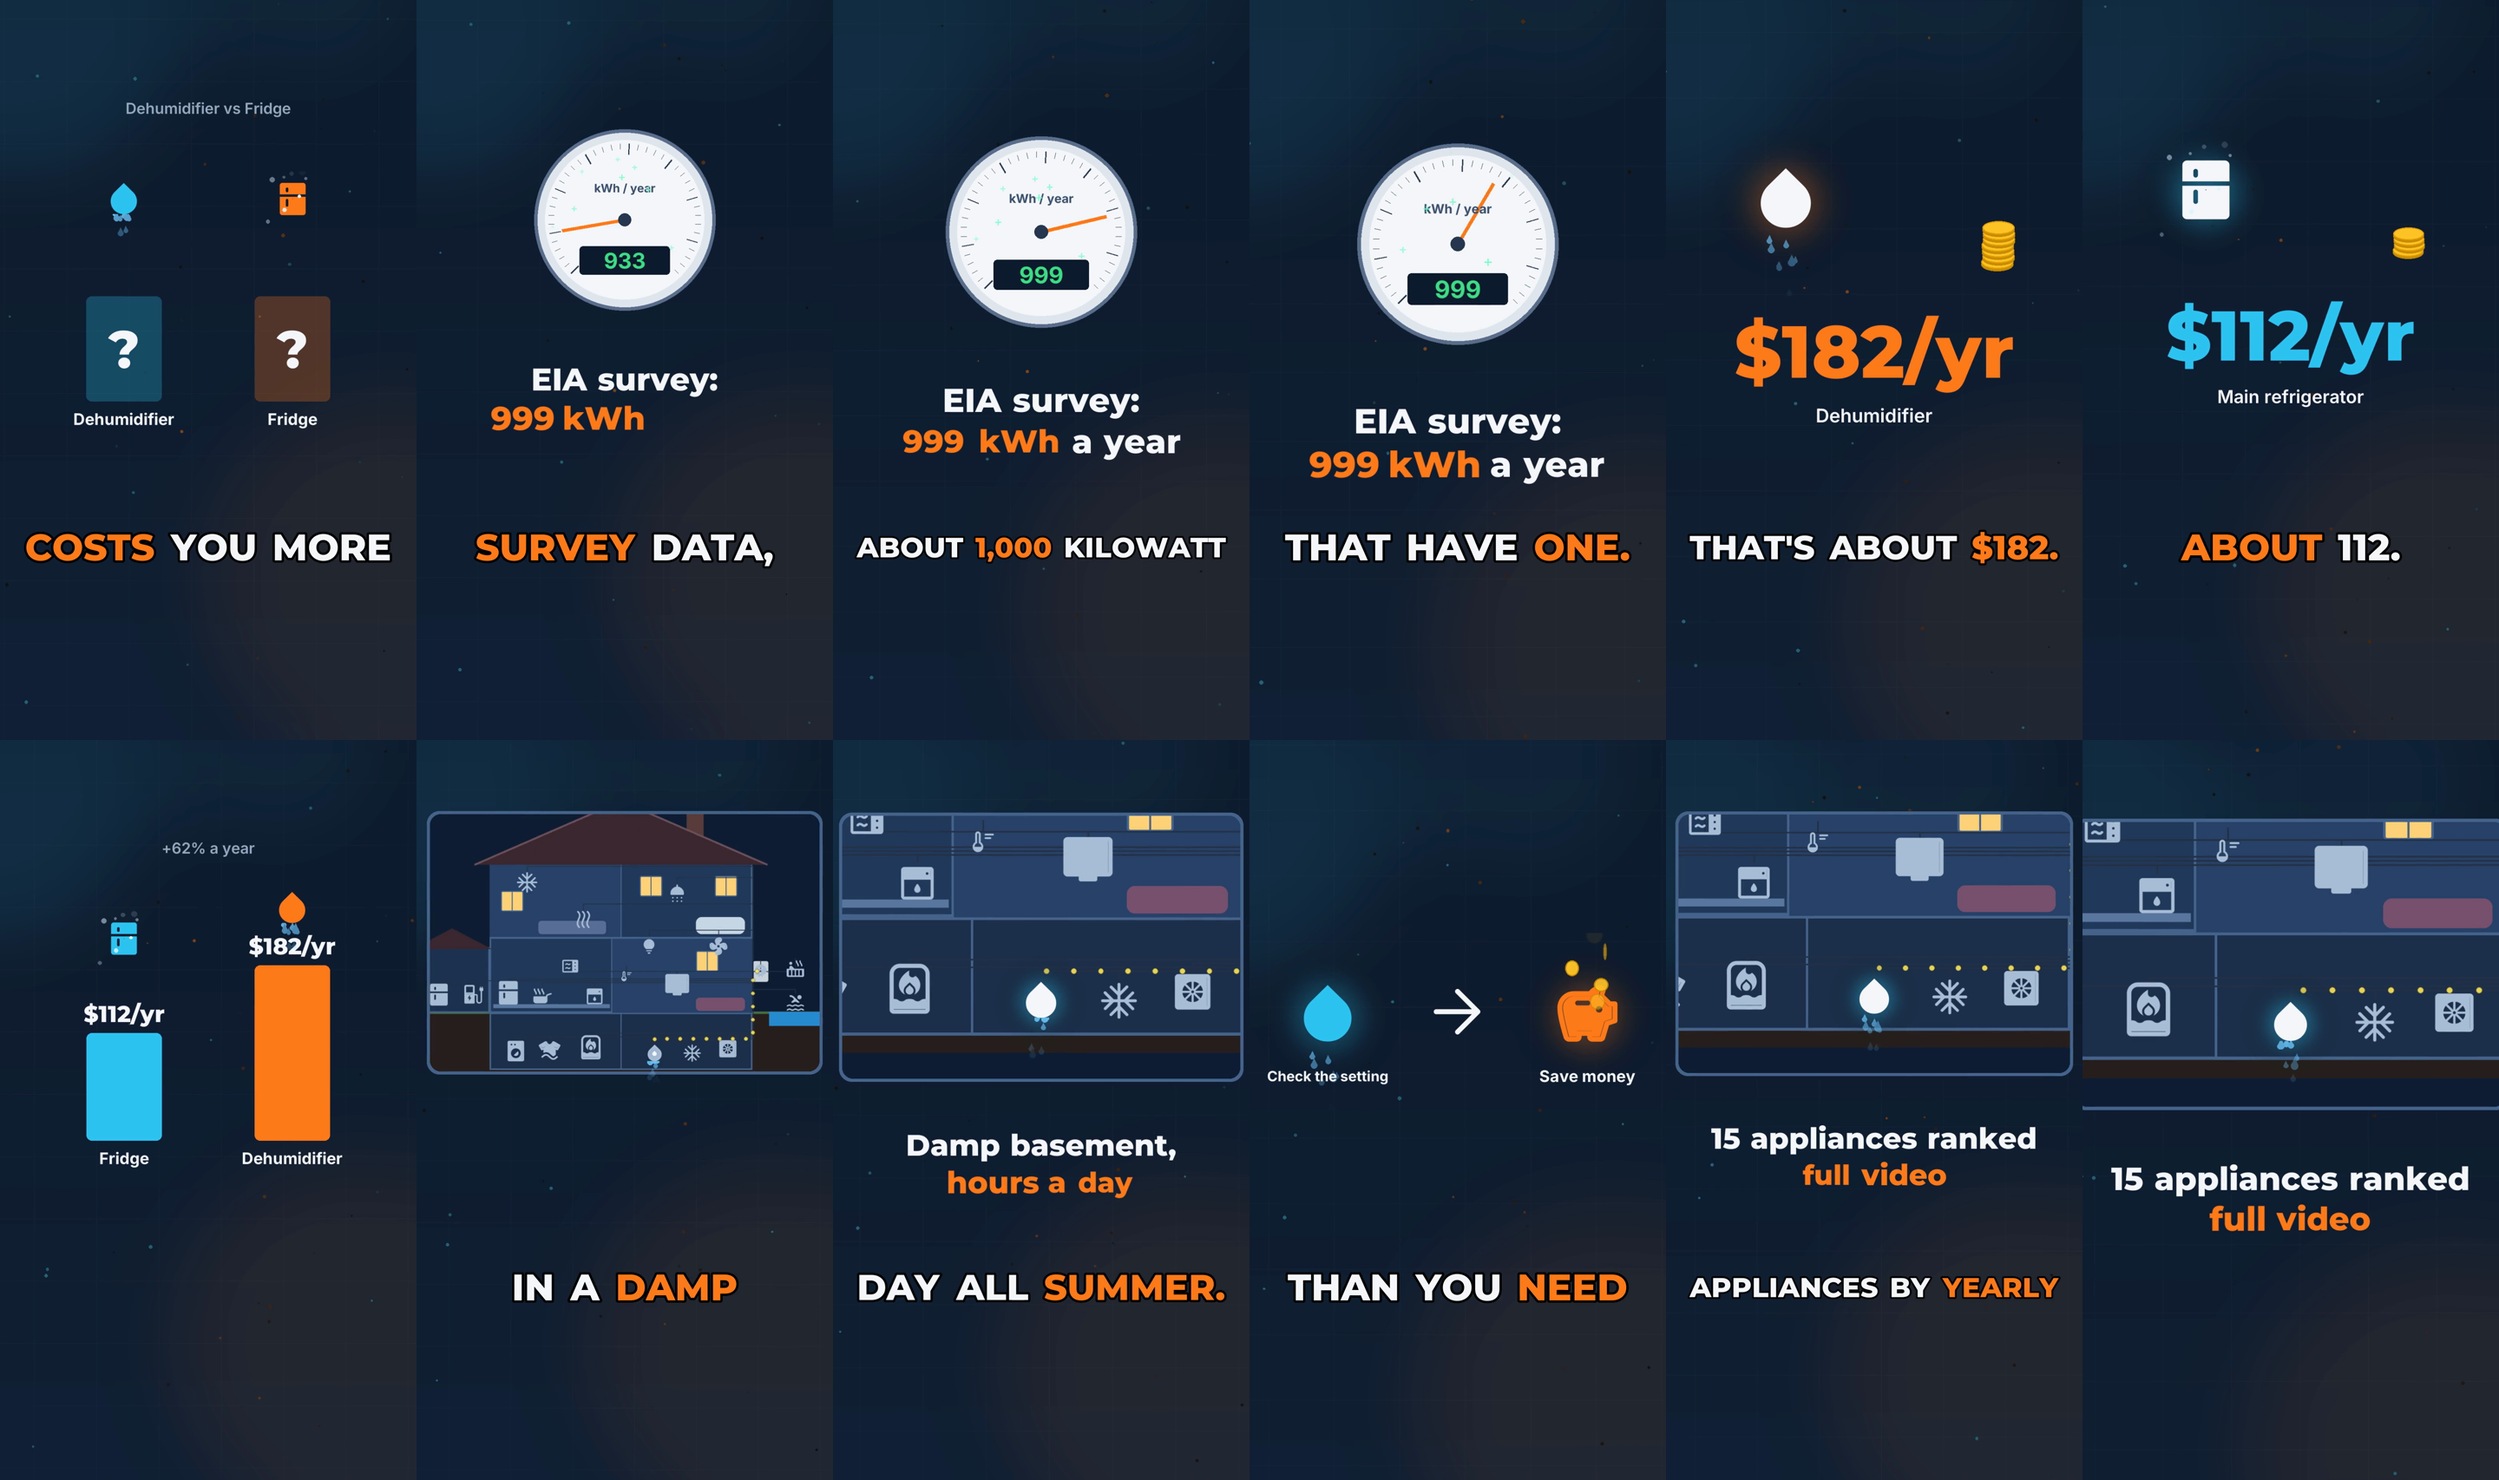
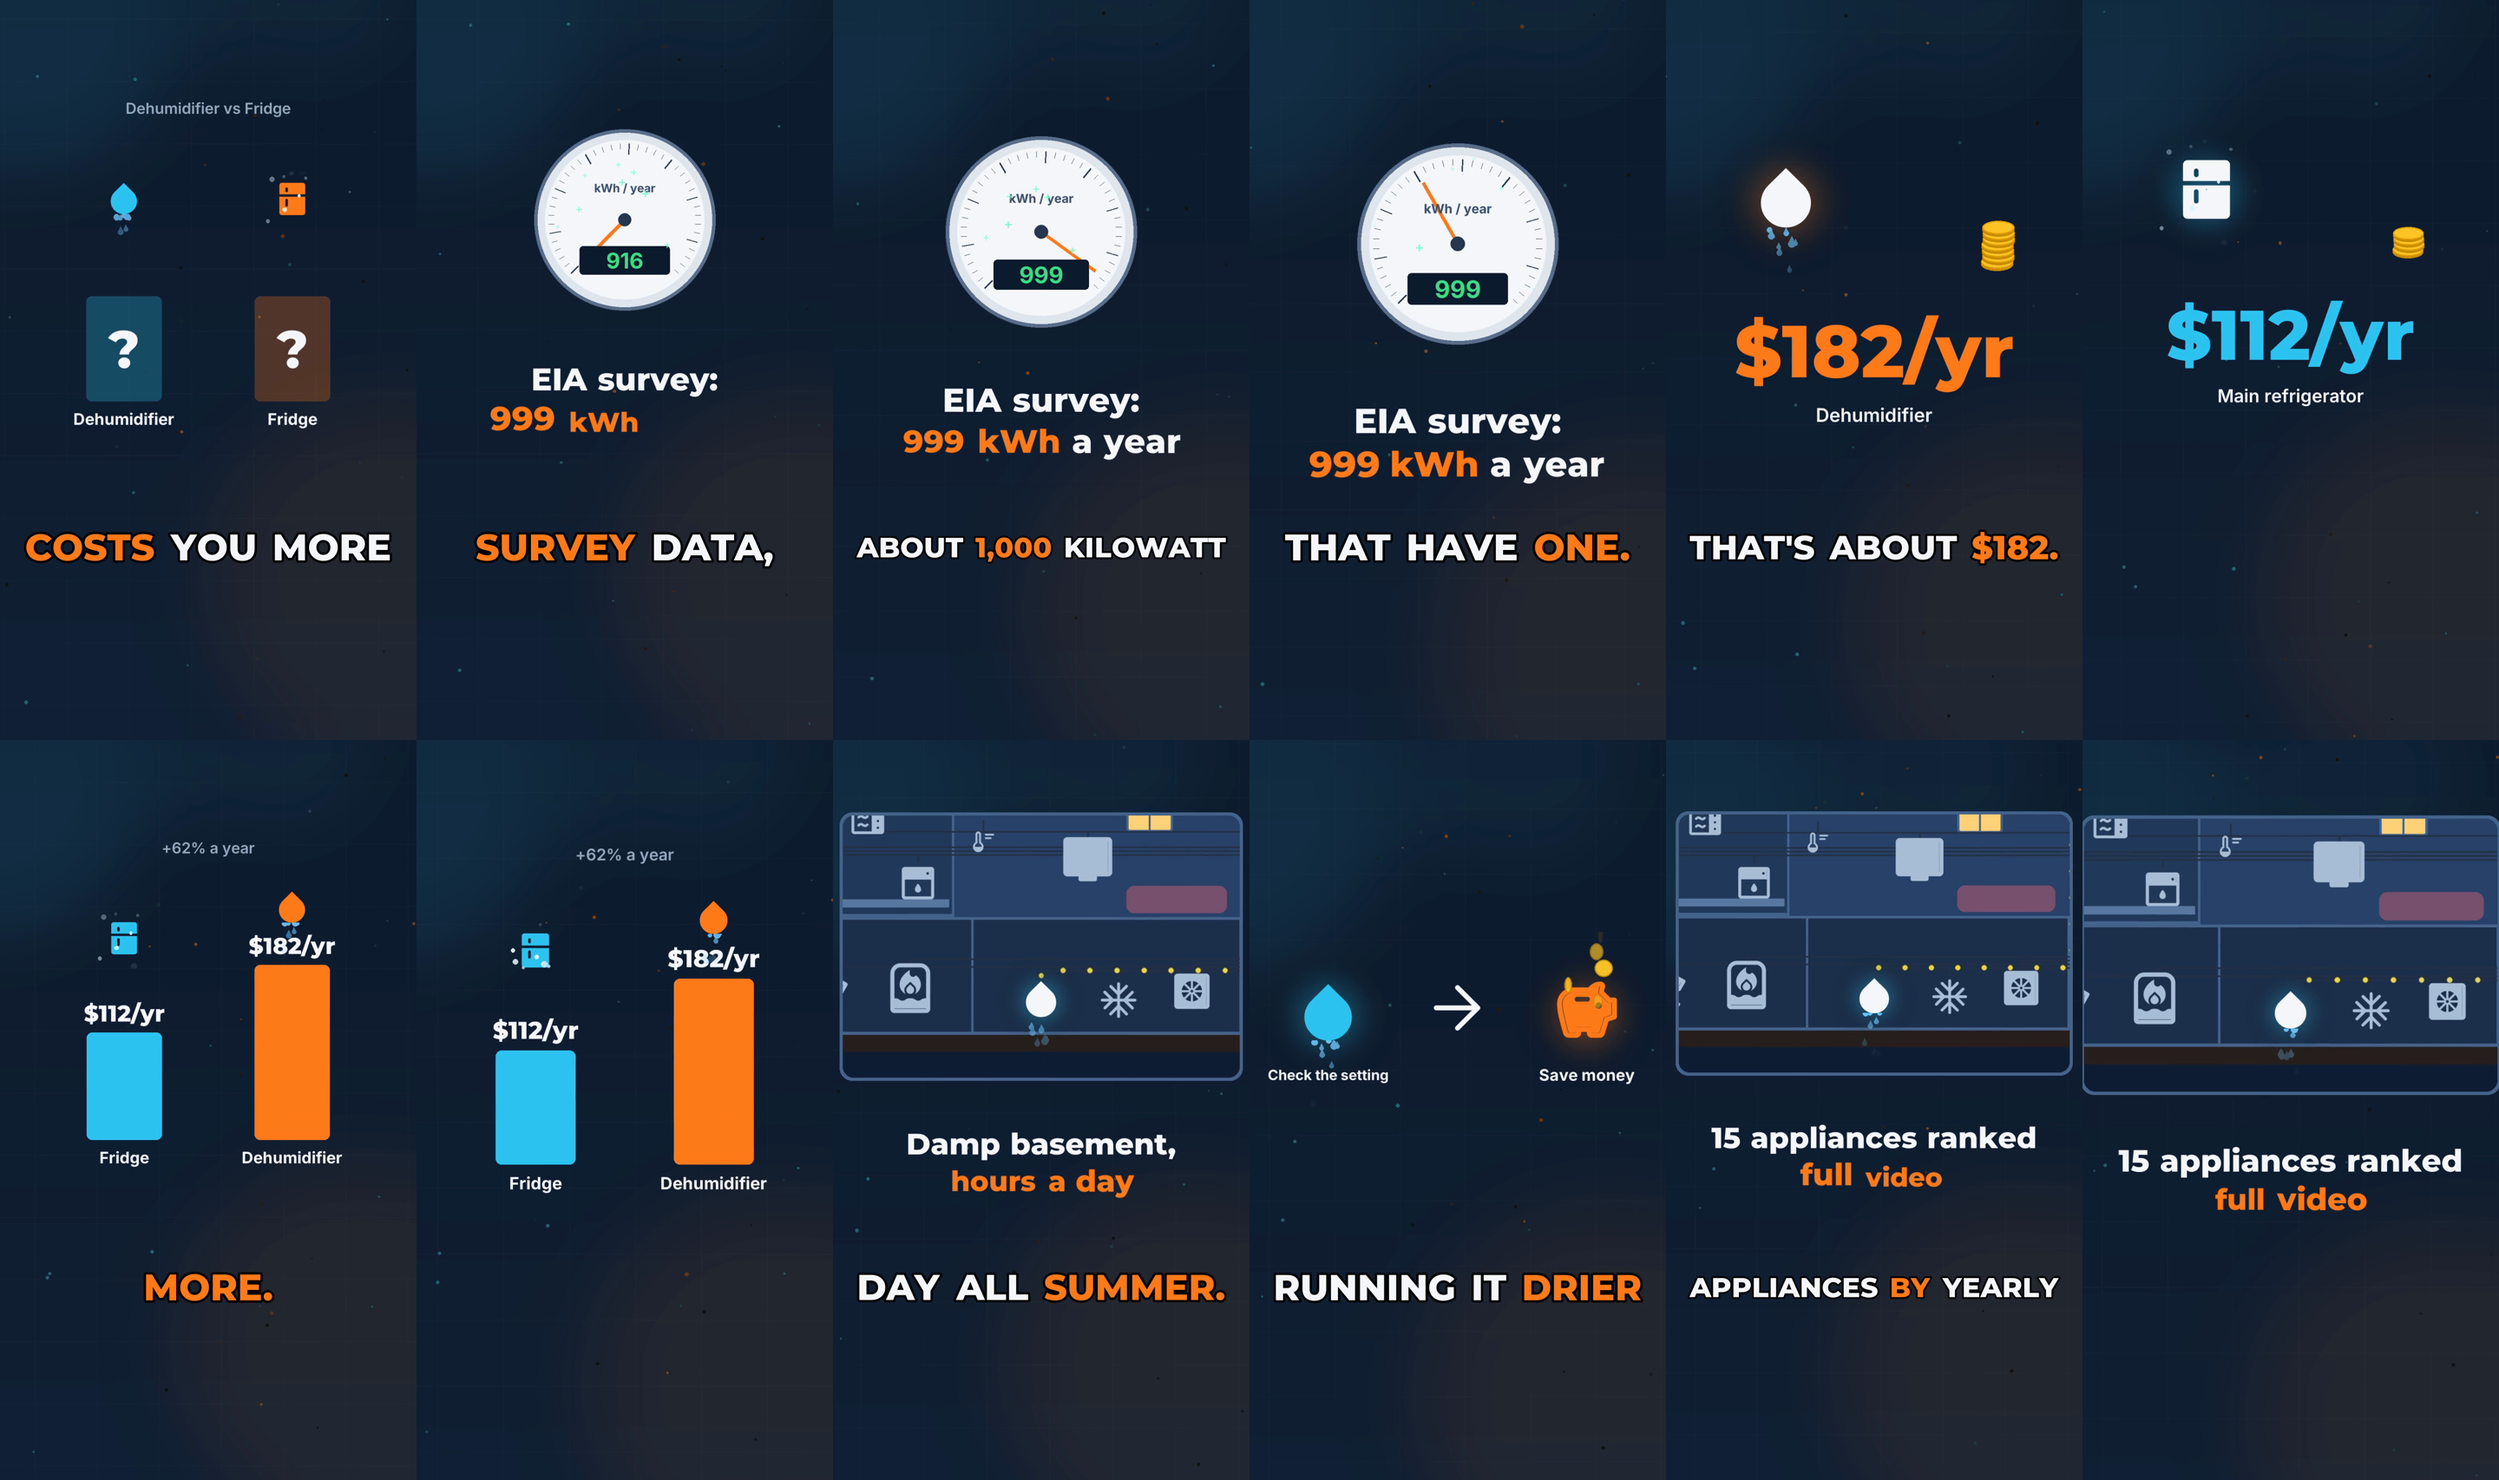
Short del deshumidificador remontado con la frase nueva y subido como borrador

diff --git a/registro.md b/registro.md
@@ -38,3 +38,4 @@
 - 2026-11-04 · Heat Pump vs Gas programado con confirmación del humano: público el jueves 5/11/2026 a las 17:00 (Madrid). https://youtu.be/6744B-MoEbE
 - 2026-11-04 · El editor es el agente del Mac (voz IA am_michael): corregida la guía, el resumen y los guiones (contenido sintético Sí con voz IA). Apuntados en publicados.csv los enlaces de los 3 vídeos publicados. Tarea diaria: hace git pull antes de escribir y de hacer push, porque el editor también sube cambios.
 - 2026-11-04 · Atendida la nota del montavideos: guía reescrita en español con sus reglas de montaje, frase del Short del deshumidificador cambiada a «The one most people forget?» y HSPF2 7,5 confirmado en la fuente primaria (10 CFR 430.32(c)(5), CFR 2025 en GovInfo).
+- 2026-11-04 · Short del deshumidificador remontado con «The one most people forget?» (acordado con el guionista; 37 s, −14,9 LUFS, control OK) y subido como borrador privado: https://youtube.com/shorts/xkg1s2u3yko. Falta el vídeo relacionado (YouTube sigue pidiendo la verificación). Sin publicar, a la espera de confirmación del humano.
